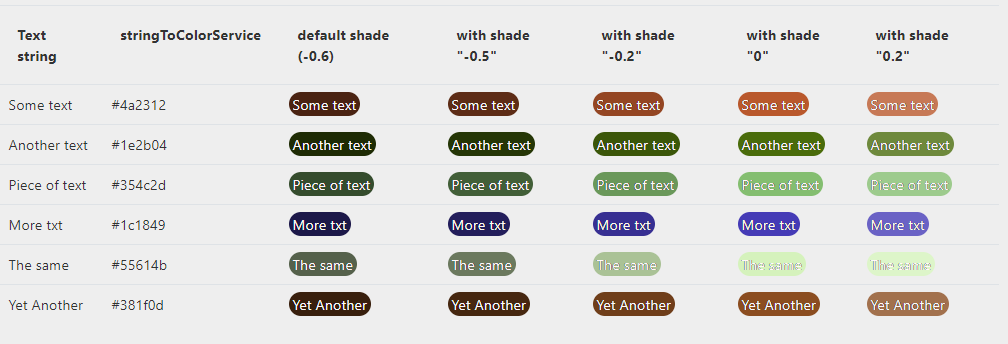
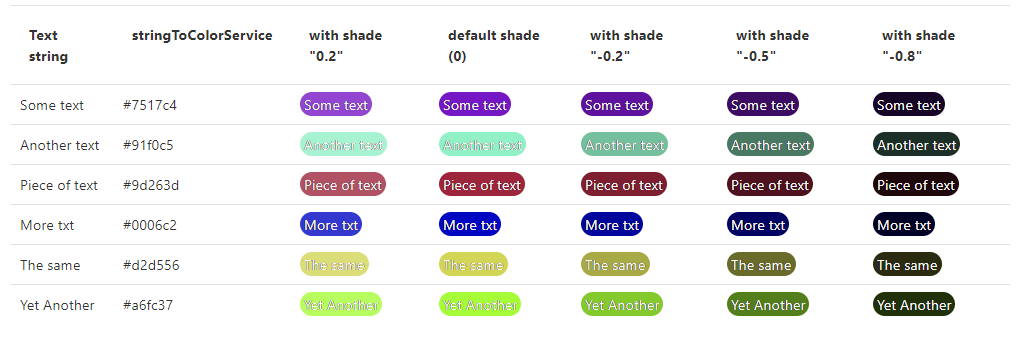
updated to new version of js library, improved readme

diff --git a/src/app/app.component.html b/src/app/app.component.html
@@ -68,7 +68,7 @@
         </td>
         <td>{{ stringToColorService.stringToColor(text, '0')}}</td>
         <td>
-          <span [style.background]="stringToColorService.stringToColor(text, '0')">&nbsp;&nbsp;&nbsp;&nbsp;&nbsp;&nbsp;</span> 
+          <span [style.background]="stringToColorService.stringToColor(text, '0')">&nbsp;&nbsp;&nbsp;&nbsp;&nbsp;&nbsp;</span>
         </td>
       </tr>
 
@@ -88,14 +88,6 @@
       <tr>
         <th>Code (using tags)</th>
         <th>result</th>
-      </tr>
-      <tr>
-        <td>
-          <pre>{{codeTagDefault}}</pre>
-        </td>
-        <td>
-          <tag-with-background-from-text [text]="text"></tag-with-background-from-text>
-        </td>
       </tr>
       <tr>
         <td>
@@ -119,6 +111,14 @@
         </td>
         <td>
           <tag-with-background-from-text [text]="text" applyShade="0"></tag-with-background-from-text>
+        </td>
+      </tr>
+      <tr>
+        <td>
+          <pre>{{codeTagDefault}}</pre>
+        </td>
+        <td>
+          <tag-with-background-from-text [text]="text"></tag-with-background-from-text>
         </td>
       </tr>
       <tr>

diff --git a/src/app/app.component.ts b/src/app/app.component.ts
@@ -1,6 +1,6 @@
 import { Component, OnInit } from '@angular/core';
 import { StringToColorService } from 'projects/ngx-string-to-css-color/src/public_api';
-import {String2HexCodeColor} from 'string-to-hex-code-color';
+import { String2HexCodeColor } from 'string-to-hex-code-color';
 
 @Component({
   selector: 'app-root',
@@ -24,12 +24,12 @@ export class AppComponent implements OnInit {
   codeTagShade4: string;
 
 
-  constructor(public stringToColorService: StringToColorService) { 
+  constructor(public stringToColorService: StringToColorService) {
   }
 
   ngOnInit() {
     this.onChangeText();
-    const str = new String2HexCodeColor(0.2);
+    const str = new String2HexCodeColor(0);
     console.log(str.stringToColor('aaa'));
 
   }

diff --git a/projects/ngx-string-to-css-color/src/lib/string-to-color.service.ts b/projects/ngx-string-to-css-color/src/lib/string-to-color.service.ts
@@ -1,6 +1,6 @@
 import { Injectable } from '@angular/core';
 import { BehaviorSubject, Observable } from 'rxjs';
-import {String2HexCodeColor} from 'string-to-hex-code-color';
+import { String2HexCodeColor } from 'string-to-hex-code-color';
 @Injectable({
   providedIn: 'root'
 })
@@ -9,7 +9,7 @@ export class StringToColorService {
   defaultShadePercentage$: BehaviorSubject<any> = new BehaviorSubject('');
   string2HexCodeColor: String2HexCodeColor;
   constructor() {
-    this.string2HexCodeColor = new String2HexCodeColor(-0.6);
+    this.string2HexCodeColor = new String2HexCodeColor(0);
   }
 
   changeDefaultPercent(percent) {

diff --git a/README.md b/README.md
@@ -55,7 +55,7 @@ console.log(color);
 gives you 
 
 ```typescript
-#1d4a44
+#4c52f6
 ```
 
 which is 
@@ -69,14 +69,14 @@ const color = this.stringToColorService.stringToColor("sample test",'-0.2');
 console.log(color);
 ```
 
-obtaining the lighter color
+obtaining the darker color
 
 ```typescript
-#3a9488
+#3d42c5
 ```
 ![](https://raw.githubusercontent.com/HugoJBello/ngx-string-to-css-color-lib/master/screenshots/sample_test_shade_-0.2.PNG)
 
-**If you change the input text, your the retrieved color will change**, for instance ``this.stringToColorService.stringToColor("sample test");`` will give you ´´#0a5a20´´ which is 
+**If you change the input text, your the retrieved color will change**, for instance ``this.stringToColorService.stringToColor("sample test22");`` will give you ´´#c0868f´´ which is 
 
 ![](https://raw.githubusercontent.com/HugoJBello/ngx-string-to-css-color-lib/master/screenshots/sample_test22_default.PNG)
 
